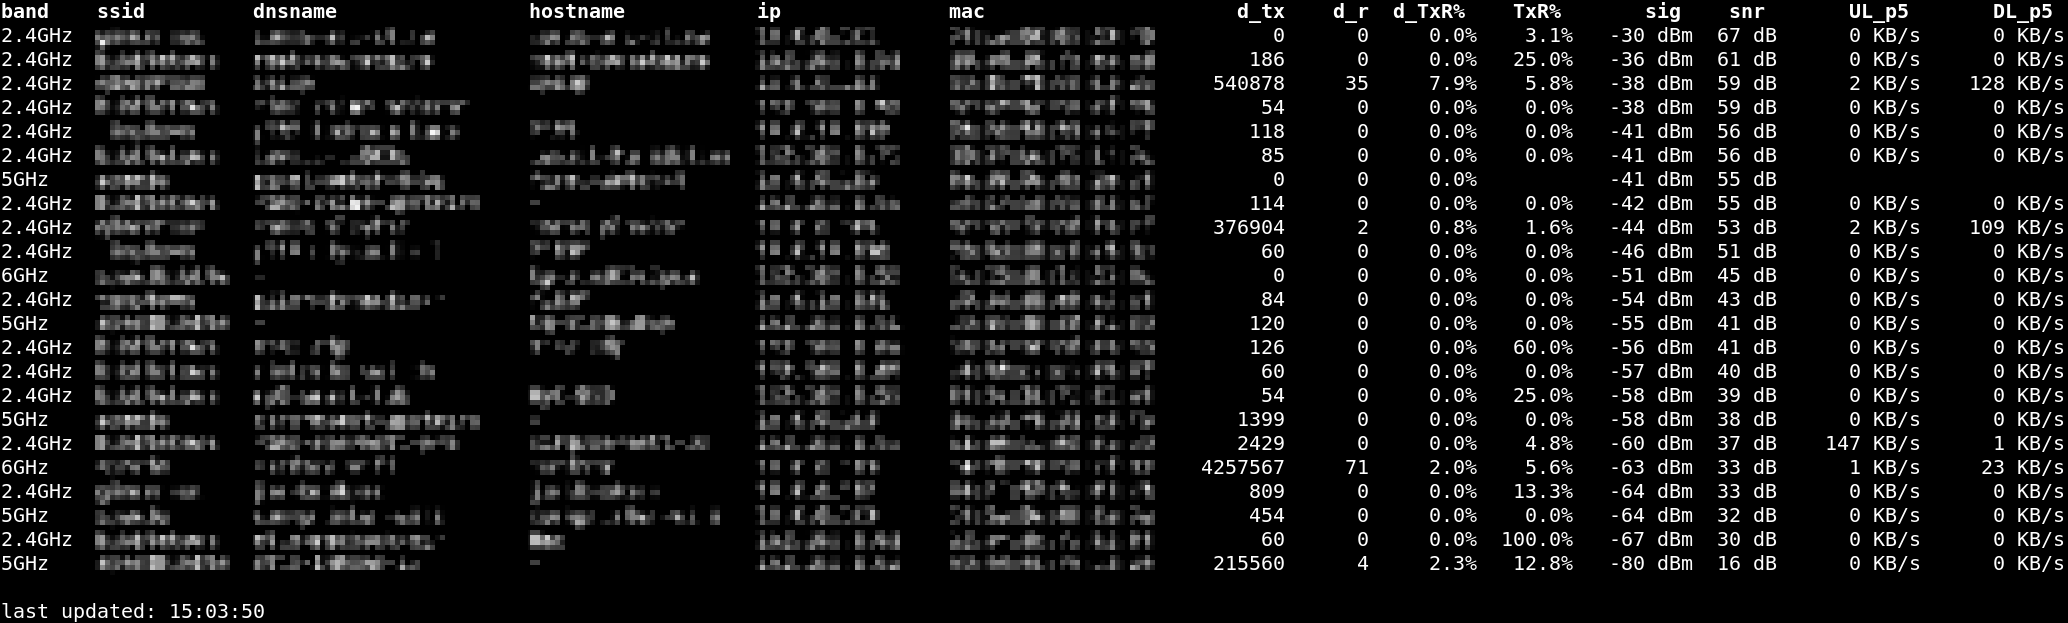
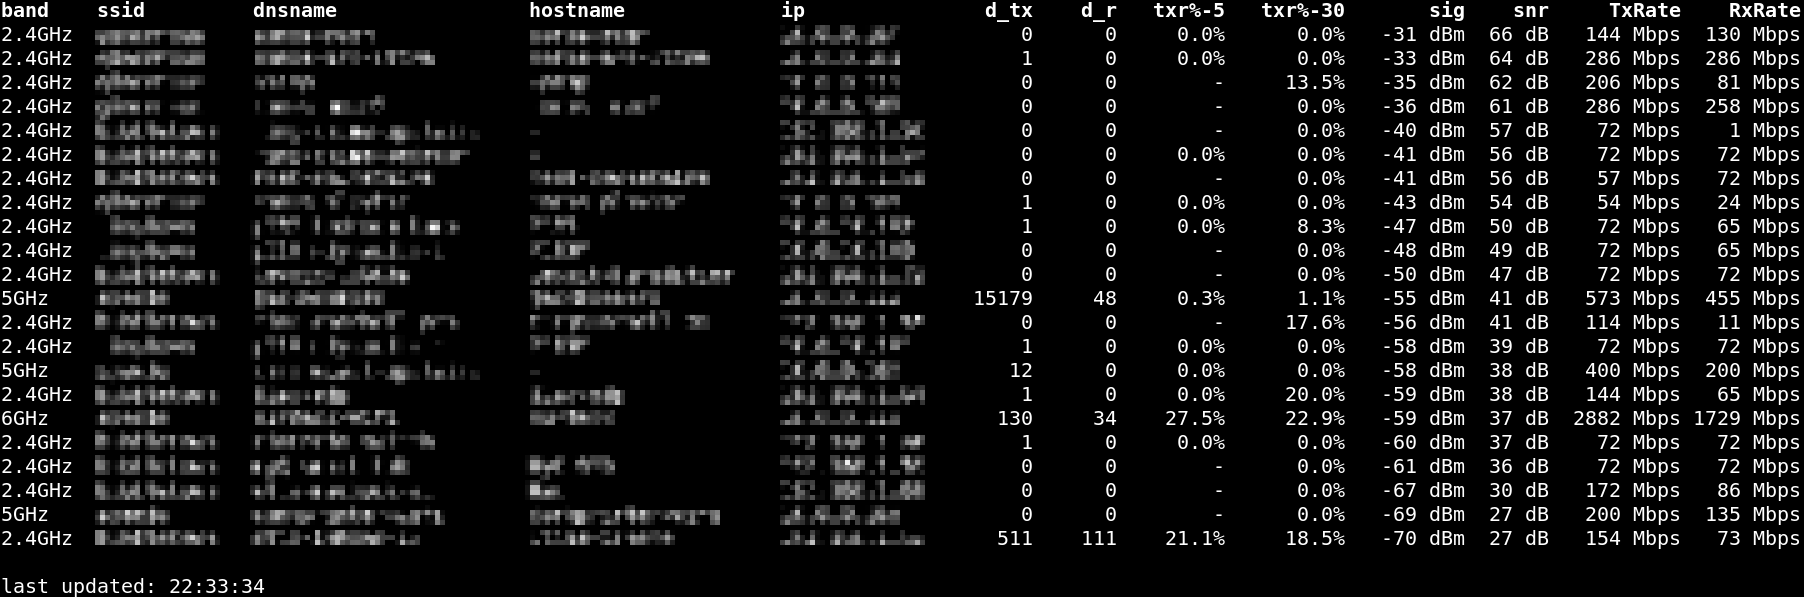
updated docs

diff --git a/README.md b/README.md
@@ -9,10 +9,9 @@ this tool monitors signal strength, retry rates and upload/download throughput s
 
 * identifies clients using both dns and hostname
 * displays band, ssid, ip, and mac metadata for each client
-* signal strength presented in both dBm and snr relative to floor
-* displays snapshot values for transmit (d_tx), receive (d_r) and transmit retry (d_TxR%) on each refresh
-* rolling windows calculations for average transmit retry (TxR%) and 5th percentile upload/download speeds (UL_p5, DL_p5)
-* highlight host rows for easy identification via `-h` option
+* signal strength presented in both dBm and snr relative to floor, along with negotiated tx and rx rates
+* displays snapshot values for transmit (d_tx), receive (d_r) and transmit retry % for rolling 5s and 30s windows (txr%) on each refresh
+* highlight host rows for easy identification via `-n` option or display select clients with the `-o` option
 * many parameters configurable via env vars (see script comments)
 
 ### notes and caveats
@@ -25,4 +24,4 @@ this tool monitors signal strength, retry rates and upload/download throughput s
 
 ### compability
 
-verified working on U6E firmware 6.8.2.15592 as of March 2026
+verified working on U6E firmware 6.8.2.15592 as of April 2026
